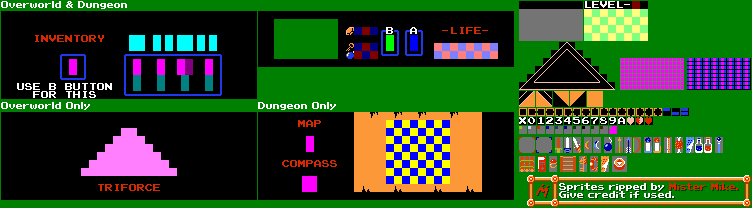
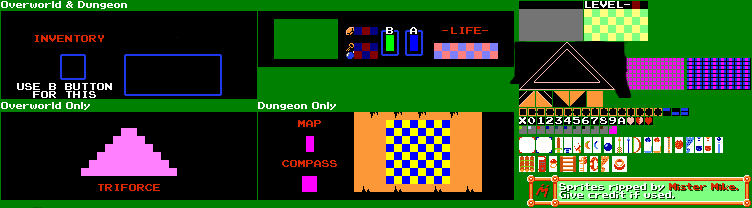
finish item select screen

diff --git a/index.html b/index.html
@@ -121,7 +121,9 @@ function keyDownHandler(e){
 		///added for lesson 19
 		canShootSword = true;
 		playSound("./sounds/LOZ_sword_slash.wav")
-    }
+    } else if (e.keyCode == 32 && needInventoryScreen) {
+		isAttacking = true;
+	}
 	if(e.keyCode == 13 && !hasGameStarted) {
 		hasGameStarted = true;
 		backgroundMusic.play();
@@ -1831,8 +1833,8 @@ function drawHUD(offset)
 				0, 0 + offset, 256, 56);
 	ctx.drawImage(hud, 2, 112, 16, 64, 
 				176, 32 + offset, 64,  16);
-	ctx.fillStyle = "black";
-	ctx.fillRect(176, 32, 64, 16);
+	//ctx.fillStyle = "black";
+	//ctx.fillRect(176, 32, 64, 16);
 	//draw Hearts
 	let fullHearts = Math.floor(currentLinkHearts)
 	let halfHearts = currentLinkHearts - fullHearts;
@@ -2162,7 +2164,7 @@ function drawGameStart() {
 function drawInventoryScreen(offset) {
 	ctx.drawImage(hud, 1, 11, 256, 88, 0, -200 + offset, 256, 88);
 	ctx.drawImage(hud, 1, 112, 256, 88, 0, -112 + offset, 256, 88);
-	ctx.drawImage(hud, 519, 42, 96, 48, 80, -112 + offset, 96, 48);
+	ctx.drawImage(hud, 519, 42, 96, 48, 80, -112 + offset + 16, 96, 48);
 	if(leftPressed && cursorX > 132) {
 		leftPressed = false;
 		cursorX -= 22;
@@ -2253,6 +2255,99 @@ function drawInventoryScreen(offset) {
 	{
 		ctx.drawImage(hud, 590, 156, 8, 16, 
 							212, 26 + offset - 200, 8, 16);
+	}
+	if(cursorX == 153 && cursorY == -152)
+	{
+		if(isAttacking)
+		{
+			currentEquippedItem = 1;
+			isAttacking = false;
+		}
+	}
+	if(cursorX == 175 && cursorY == -152)
+	{
+		if(isAttacking)
+		{
+			currentEquippedItem = 2;
+			isAttacking = false;
+		}
+	}
+	if(cursorX == 197 && cursorY == -152)
+	{
+		if(isAttacking)
+		{
+			currentEquippedItem = 3;
+			isAttacking = false;
+		}
+	}
+	if(cursorX == 131 && cursorY == -134)
+	{
+		if(isAttacking)
+		{
+			currentEquippedItem = 4;
+			isAttacking = false;
+		}
+	}
+	if(cursorX == 153 && cursorY == -134)
+	{
+		if(isAttacking)
+		{
+			currentEquippedItem = 5;
+			isAttacking = false;
+		}
+	}
+	if(cursorX == 175 && cursorY == -134)
+	{
+		if(isAttacking)
+		{
+			currentEquippedItem = 6;
+			isAttacking = false;
+		}
+	}
+	if(cursorX == 197 && cursorY == -134)
+	{
+		if(isAttacking)
+		{
+			currentEquippedItem = 7;
+			isAttacking = false;
+		}
+	}
+	switch(currentEquippedItem)
+	{
+		case 0:
+			ctx.drawImage(hud, 584, 137, 8, 16, 
+				69, 48 + offset - 200, 8, 16);
+			break;
+		case 1:
+			ctx.drawImage(hud, 604, 137, 8, 16, 
+				69, 48 + offset - 200, 8, 16);
+			break;
+		case 2:
+			ctx.drawImage(hud, 615, 137, 8, 16, 
+				65, 48 + offset - 200, 8, 16);
+			ctx.drawImage(hud, 633, 137, 8, 16, 
+				73, 48 + offset - 200, 8, 16);
+			break;
+		case 3:
+			ctx.drawImage(hud, 653, 137, 8, 16, 
+				69, 48 + offset - 200, 8, 16);
+			break;
+		case 4:
+			ctx.drawImage(hud, 664, 137, 8, 16, 
+				69, 48 + offset - 200, 8, 16);
+			break;
+		case 5:
+			ctx.drawImage(hud, 675, 137, 8, 16, 
+				69, 48 + offset - 200, 8, 16);
+			break;	
+		case 6:
+			ctx.drawImage(hud, 704, 137, 8, 16, 
+				69, 48 + offset - 200, 8, 16);
+			break;
+		case 7:
+			ctx.drawImage(hud, 715, 137, 8, 16, 
+				69, 48 + offset - 200, 8, 16);
+			break;
 	}
 }
 
